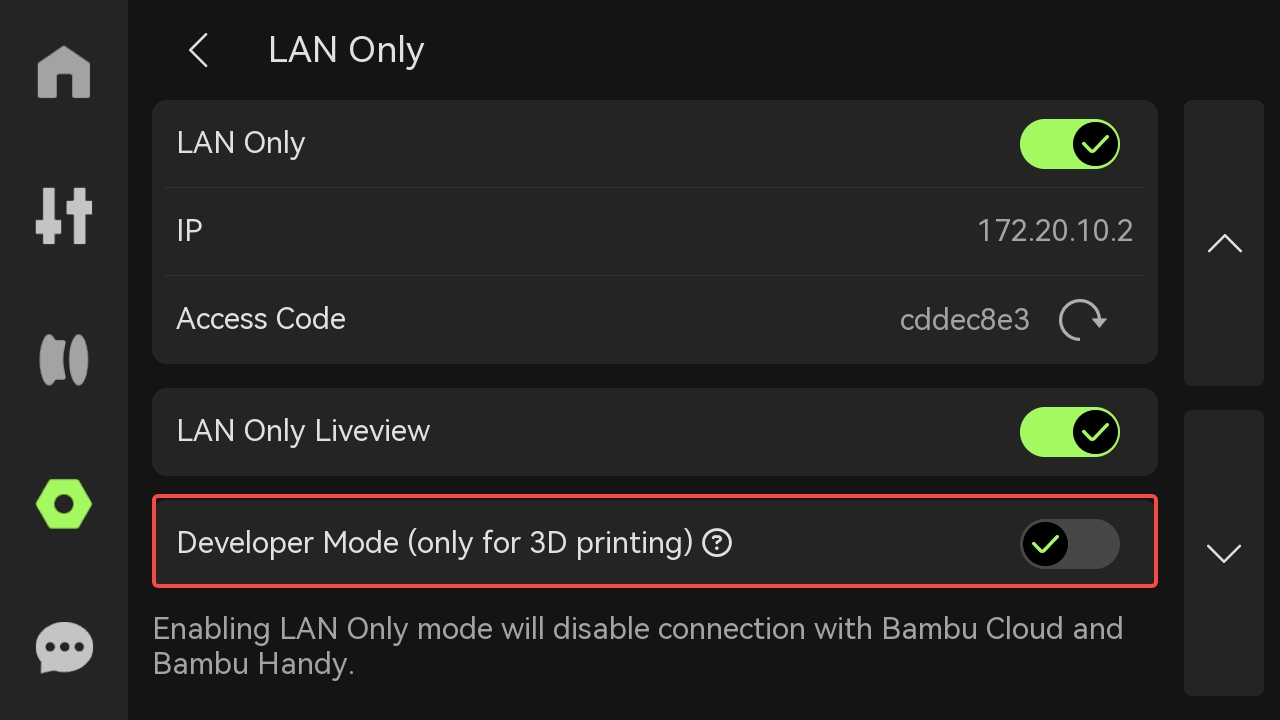
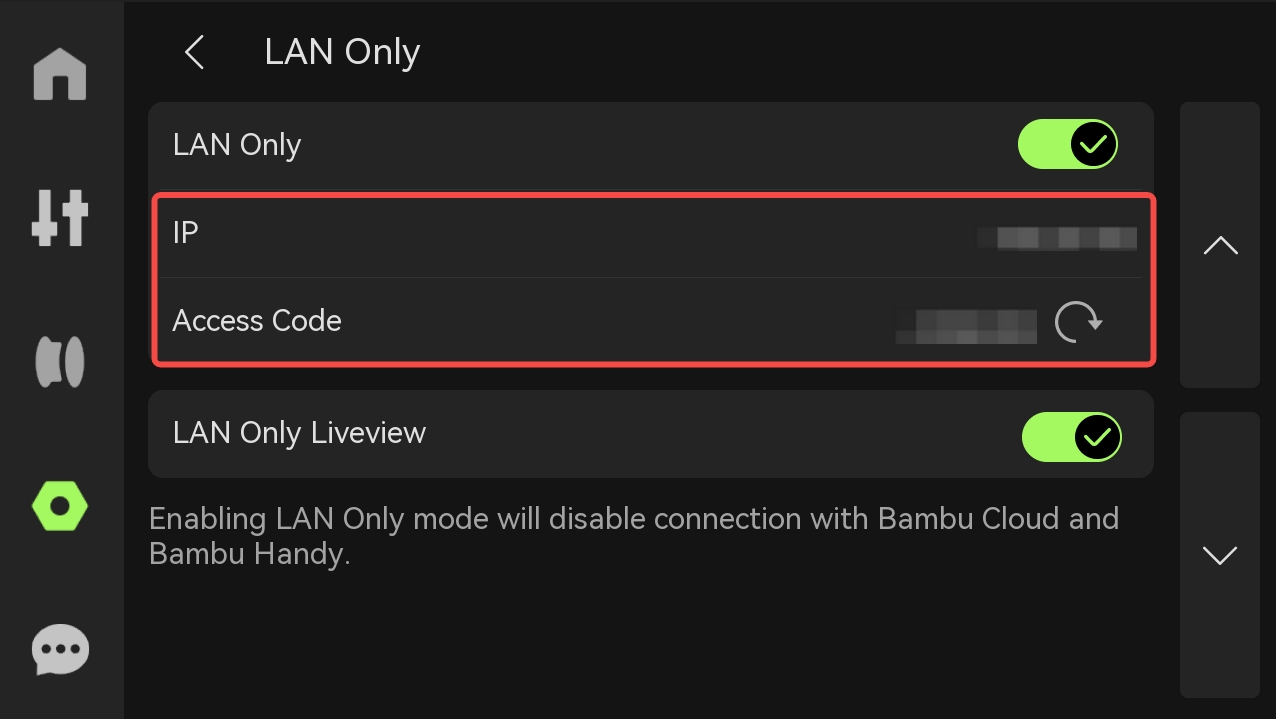
Clarify printer code examples and connection pictures

diff --git a/docs/equipment/3d_printers/connecting.md b/docs/equipment/3d_printers/connecting.md
@@ -2,7 +2,7 @@
 
 The information on this page is intended for inducted HacMan members who want to set up their own computer to connect to the printers. Your computer must be connected to the Hackspace Wi-Fi or wired network.
 
-**The printer's screen is the source of truth.** The codes and keys below are retained as examples from earlier working connections; they are not a promise of the current value. If one stops working, read the current value from the correct printer using the instructions below and update the connection on your own computer. You do not need to wait for someone to update this page.
+The codes below are examples and may have changed. If a code does not work, follow the steps below to find the current one on the printer, then enter it on your computer. Please leave the printer's code unchanged.
 
 /// warning | Read the code — please do not change it
 These are shared printers. Changing a code disconnects other members and the workshop computers. **Do not press the circular refresh arrow beside a Bambu access code, or select Generate Password on a Prusa.** Reading the displayed value is enough. Leave LAN mode, Wi-Fi, PrusaLink and account settings as they are; do not reset a printer or bind it to a personal account to fix a login problem. If a setting needs changing, ask the 3D printing team.
@@ -30,13 +30,8 @@ Use the rotary knob to highlight menu entries and press it to open them.
 **Leave Generate Password alone.** It creates a different password; it is not needed to reveal or copy the existing one. If PrusaLink is disabled or the menu looks unfamiliar, ask the team instead of changing the settings.
 
 <figure markdown="1">
-  ![Prusa MK4 Network menu with PrusaLink at the top and IPv4 Address highlighted](images/connection-prusa-mk4-network.jpeg)
-  <figcaption>First open Settings &gt; Network. Read IPv4 Address, then open PrusaLink. Manufacturer illustration from <a href="https://help.prusa3d.com/guide/sending-files-from-prusaslicer-to-prusalink_222961#417427">Prusa's credential guide</a>; its example address is not a HacMan printer address.</figcaption>
-</figure>
-
-<figure markdown="1">
   ![PrusaLink screen showing User and Password below the Generate Password control, which must be left alone](images/connection-prusa-mk4-prusalink.jpeg)
-  <figcaption>Read User and Password. Do not select Generate Password above them. Image: Prusa Research; the pictured password is an example, not a HacMan key.</figcaption>
+  <figcaption>The blue arrows point to User and Password. Read those two values; leave Generate Password alone. Image: <a href="https://help.prusa3d.com/guide/sending-files-from-prusaslicer-to-prusalink_222961#417427">Prusa Research</a>. The pictured password is an example, not a HacMan key.</figcaption>
 </figure>
 
 ### Add a physical printer to PrusaSlicer
@@ -99,7 +94,7 @@ This can be used to upload correctly prepared G-code without configuring PrusaSl
 
 <figure markdown="1">
   ![Bambu touchscreen LAN Only page showing the IP address and Access Code, with a circular refresh arrow to the right of the code](images/connection-bambu-touchscreen-access-code.jpg)
-  <figcaption>Bambu Lab uses this touchscreen illustration in its <a href="https://wiki.bambulab.com/en/knowledge-sharing/enable-lan-mode#h2-series-p2s-x-series-printers">H2/P2S/X-series instructions</a>. Read Access Code; leave the arrow and switches alone. The pictured values are manufacturer examples. Layout and wording can vary with firmware.</figcaption>
+  <figcaption>The red box surrounds IP and Access Code. Read the code beside Access Code; do not tap the circular arrow to its right. Image: <a href="https://wiki.bambulab.com/en/knowledge-sharing/enable-lan-mode#connect-to-the-printer-using-the-access-code-and-ip">Bambu Lab's LAN connection guide</a>. Its example values are blurred. Layout and wording can vary with firmware.</figcaption>
 </figure>
 
 ## Connect Bambu Studio
@@ -125,7 +120,8 @@ Routine code changes do not require a documentation update: members can read the
 ## Manufacturer references
 
 - [Bambu Lab: LAN mode and finding the access code (P1P/P1S and H2/P2S/X series)](https://wiki.bambulab.com/en/knowledge-sharing/enable-lan-mode)
+- [Bambu Lab: P2S screen operation guide](https://wiki.bambulab.com/en/p2s/manual/screen-operation)
 - [Bambu Lab P2S user manual, section 7.3.1, page 68](https://csm.bblcdn.com/hub/9425242c00344b0e801b6179f9a243aa.pdf#page=69)
 - [Prusa: credentials on the MK4/XL printer](https://help.prusa3d.com/guide/sending-files-from-prusaslicer-to-prusalink_222961#417427)
 
-The manufacturer guides also describe initial setup. HacMan printers are already configured: follow the read-only lookup steps above and leave setup, code generation and network changes to maintainers. Manufacturer references checked 21 October 2026.
+The manufacturer guides also describe initial setup. HacMan printers are already configured: follow the read-only lookup steps above and leave setup, code generation and network changes to maintainers. Manufacturer references checked 30 October 2026.
